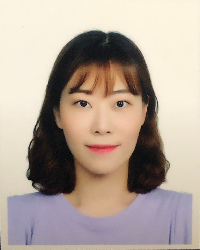
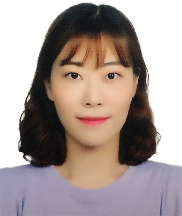
chore: 교역자 이미지 수정 및 적용

diff --git a/apps/client/src/components/about/profileList.tsx b/apps/client/src/components/about/profileList.tsx
@@ -58,7 +58,7 @@ const staffProfiles = [
   },
   {
     description: "2023년 12월 부임",
-    image: "/images/leader/gyu-bo.jpeg",
+    image: "/images/leader/gyu-bo.png",
     name: "김규보",
     position: "상담사역 (총신대 상담학 교수)",
     tabType: "minister",
@@ -66,7 +66,7 @@ const staffProfiles = [
   },
   {
     description: "2004년 1월 부임",
-    image: "/images/leader/mae-sil.jpeg",
+    image: "/images/leader/mae-sil.png",
     name: "박매실",
     position: "1교구, 신혼부부, 차량위원회",
     tabType: "minister",
@@ -74,7 +74,7 @@ const staffProfiles = [
   },
   {
     name: "이능옥",
-    image: "/images/leader/neung-oak.jpeg",
+    image: "/images/leader/neung-oak.png",
     description: "2008년 1월 부임",
     position: "2교구, 실버구역, 새가족부, 새가족위원회",
     tabType: "minister",
@@ -91,7 +91,7 @@ const staffProfiles = [
   {
     name: "김화선",
     description: "2023년 12월 부임",
-    image: "/images/leader/hwa-seon.jpeg",
+    image: "/images/leader/hwa-seon.png",
     position: "영아부, 엄마QT학교",
     tabType: "minister",
     officerType: "evangelist",

diff --git a/apps/client/src/pages/about/leadership/staff.tsx b/apps/client/src/pages/about/leadership/staff.tsx
@@ -15,7 +15,7 @@ const LeadershipStaffPage = () => {
       detailMenus={aboutLeaderMenus}
     >
       <Tabs menus={aboutLeaderMenus}>
-        <ProfileList tabType="staff" className="lg:grid-cols-2 2xl:grid-cols-3" />
+        <ProfileList tabType="staff" className="md:grid-cols-2 xl:grid-cols-3" />
       </Tabs>
     </Layout>
   );
